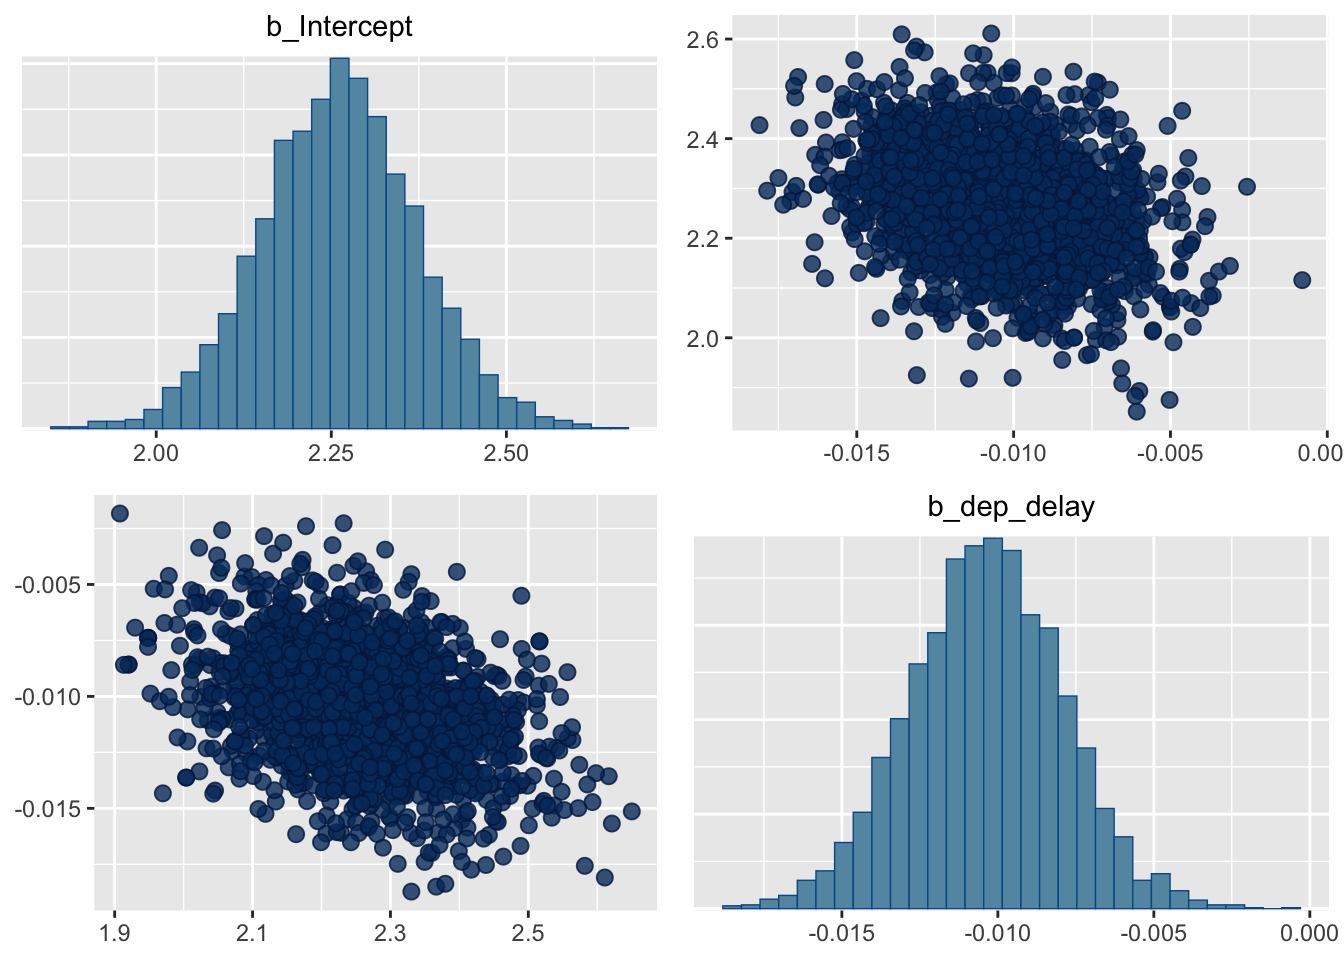
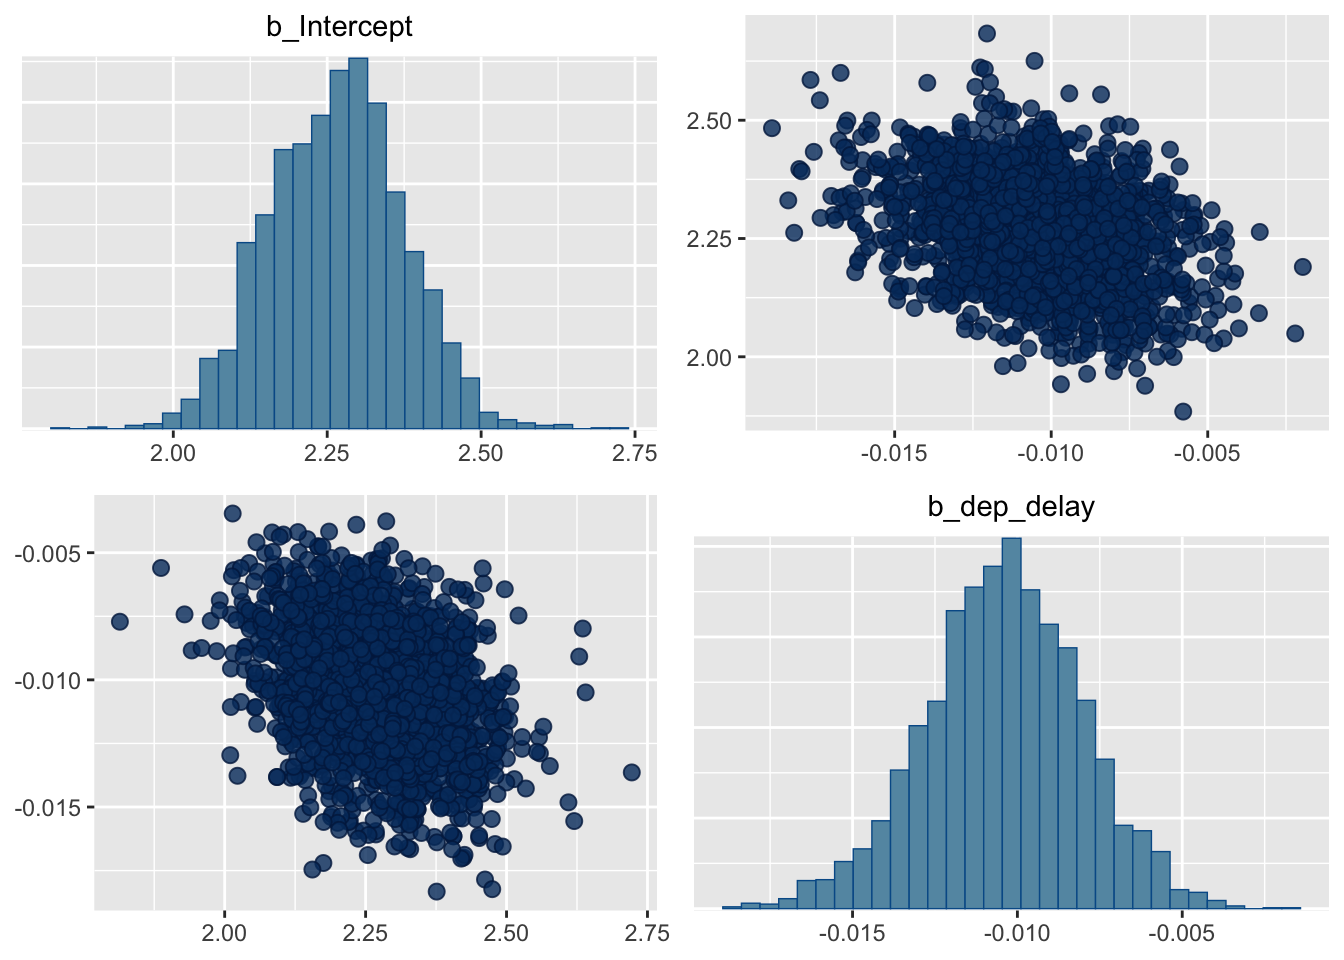
commments

diff --git a/docs/posts/first-post/index.html b/docs/posts/first-post/index.html
@@ -344,7 +344,7 @@ The following object is masked from 'package:dplyr':
 <span id="cb18-7"><a href="#cb18-7" aria-hidden="true" tabindex="-1"></a>  <span class="fu">labs</span>(<span class="at">x =</span> <span class="st">"Departure Delay (minutes)"</span>, <span class="at">y =</span> <span class="st">"Predicted Satisfaction"</span>,</span>
 <span id="cb18-8"><a href="#cb18-8" aria-hidden="true" tabindex="-1"></a>       <span class="at">title =</span> <span class="st">"Prior Predictive Distribution of Satisfaction"</span>)</span></code><button title="Copy to Clipboard" class="code-copy-button"><i class="bi"></i></button></pre></div>
 <div class="cell-output cell-output-stderr">
-<pre><code>Warning: Removed 244 rows containing missing values or values outside the scale range
+<pre><code>Warning: Removed 274 rows containing missing values or values outside the scale range
 (`geom_point()`).</code></pre>
 </div>
 <div class="cell-output-display">
@@ -393,8 +393,8 @@ Formula: satisfaction ~ dep_delay
 
 Regression Coefficients:
           Estimate Est.Error l-95% CI u-95% CI Rhat Bulk_ESS Tail_ESS
-Intercept     2.26      0.11     2.04     2.49 1.00     1581     1683
-dep_delay    -0.01      0.00    -0.02    -0.01 1.00     3743     2245
+Intercept     2.26      0.11     2.06     2.47 1.00     1863     1842
+dep_delay    -0.01      0.00    -0.02    -0.01 1.00     4208     2871
 
 Draws were sampled using sampling(NUTS). For each parameter, Bulk_ESS
 and Tail_ESS are effective sample size measures, and Rhat is the potential
@@ -413,12 +413,12 @@ scale reduction factor on split chains (at convergence, Rhat = 1).</code></pre>
 <div class="sourceCode cell-code" id="cb29"><pre class="sourceCode r code-with-copy"><code class="sourceCode r"><span id="cb29-1"><a href="#cb29-1" aria-hidden="true" tabindex="-1"></a>ci <span class="ot">&lt;-</span> <span class="fu">posterior_summary</span>(fit, <span class="at">probs =</span> <span class="fu">c</span>(<span class="fl">0.025</span>, <span class="fl">0.975</span>))</span>
 <span id="cb29-2"><a href="#cb29-2" aria-hidden="true" tabindex="-1"></a><span class="fu">print</span>(ci)</span></code><button title="Copy to Clipboard" class="code-copy-button"><i class="bi"></i></button></pre></div>
 <div class="cell-output cell-output-stdout">
-<pre><code>                 Estimate   Est.Error          Q2.5         Q97.5
-b_Intercept    2.26122399 0.112469176    2.03904720  2.485138e+00
-b_dep_delay   -0.01037918 0.002461053   -0.01524618 -5.618502e-03
-Intercept      2.16884929 0.107030311    1.95255948  2.380262e+00
-lprior        -2.36545157 0.039545965   -2.44524052 -2.287370e+00
-lp__        -332.40705213 1.067479401 -335.35881225 -3.314063e+02</code></pre>
+<pre><code>               Estimate   Est.Error          Q2.5         Q97.5
+b_Intercept    2.264751 0.108038341    2.05633772  2.471540e+00
+b_dep_delay   -0.010430 0.002383802   -0.01538849 -5.824458e-03
+Intercept      2.171924 0.102846496    1.97997345  2.368781e+00
+lprior        -2.366542 0.038071984   -2.44076910 -2.296903e+00
+lp__        -332.334157 0.958373108 -334.77701385 -3.314061e+02</code></pre>
 </div>
 </div>
 </section>
@@ -479,8 +479,8 @@ Formula: satisfaction ~ dep_delay
 
 Regression Coefficients:
           Estimate Est.Error l-95% CI u-95% CI Rhat Bulk_ESS Tail_ESS
-Intercept     2.27      0.11     2.05     2.50 1.00     1513     1627
-dep_delay    -0.01      0.00    -0.02    -0.01 1.00     3790     2583
+Intercept     2.27      0.11     2.06     2.49 1.00     1702     1916
+dep_delay    -0.01      0.00    -0.02    -0.01 1.00     3649     2661
 
 Draws were sampled using sampling(NUTS). For each parameter, Bulk_ESS
 and Tail_ESS are effective sample size measures, and Rhat is the potential
@@ -504,11 +504,11 @@ scale reduction factor on split chains (at convergence, Rhat = 1).</code></pre>
 <span id="cb40-2"><a href="#cb40-2" aria-hidden="true" tabindex="-1"></a><span class="fu">print</span>(ci)</span></code><button title="Copy to Clipboard" class="code-copy-button"><i class="bi"></i></button></pre></div>
 <div class="cell-output cell-output-stdout">
 <pre><code>                 Estimate   Est.Error          Q2.5         Q97.5
-b_Intercept    2.26870461 0.112307457    2.05165581  2.498300e+00
-b_dep_delay   -0.01041286 0.002495478   -0.01551855 -5.461548e-03
-Intercept      2.17603012 0.106035658    1.97371847  2.389864e+00
-lprior        -4.85735541 0.002316511   -4.86217159 -4.853098e+00
-lp__        -334.89162732 1.026368189 -337.69665340 -3.338961e+02</code></pre>
+b_Intercept    2.27227671 0.111813812    2.05556383  2.494849e+00
+b_dep_delay   -0.01040141 0.002409483   -0.01508822 -5.787023e-03
+Intercept      2.17970412 0.106878518    1.97007222  2.392087e+00
+lprior        -4.85743624 0.002334520   -4.86223114 -4.853032e+00
+lp__        -334.87491111 0.985268115 -337.40683036 -3.338955e+02</code></pre>
 </div>
 </div>
 <p>After setting our own priors for our model, we got results that we the same. The $\beta_0$ value was the exact same of 2.27. The $\beta_1$ values or the slope, were the exact same at -0.01. The 95% credible interval for the intercept is approximately [2.06, 2.48], indicating that we are 95% confident that the true intercept lies within this range. This was pretty much the same as the 95% confidence interval for brm’s priors that was [2.06, 2.49]. The 95% credible interval for `dep_delay` is approximately [-0.016, -0.006], there is a 95% probability that the true value from dep_delay is within the interval. This is sightly different from the 95% credible interval for brm’s priors that was [-0.010, 0.003]. This is probably because brm chose a flat prior for the slope, but we picked one that included some prior knowledge on the slope. Overall, the prior had very little influence on the posterior distribution. So the model is not very sensitivity to the prior.</p>

diff --git a/docs/projects.html b/docs/projects.html
@@ -154,6 +154,7 @@ ul.task-list li input[type="checkbox"] {
 
 
 
+<p>More to come soon!</p>
 
 
 
